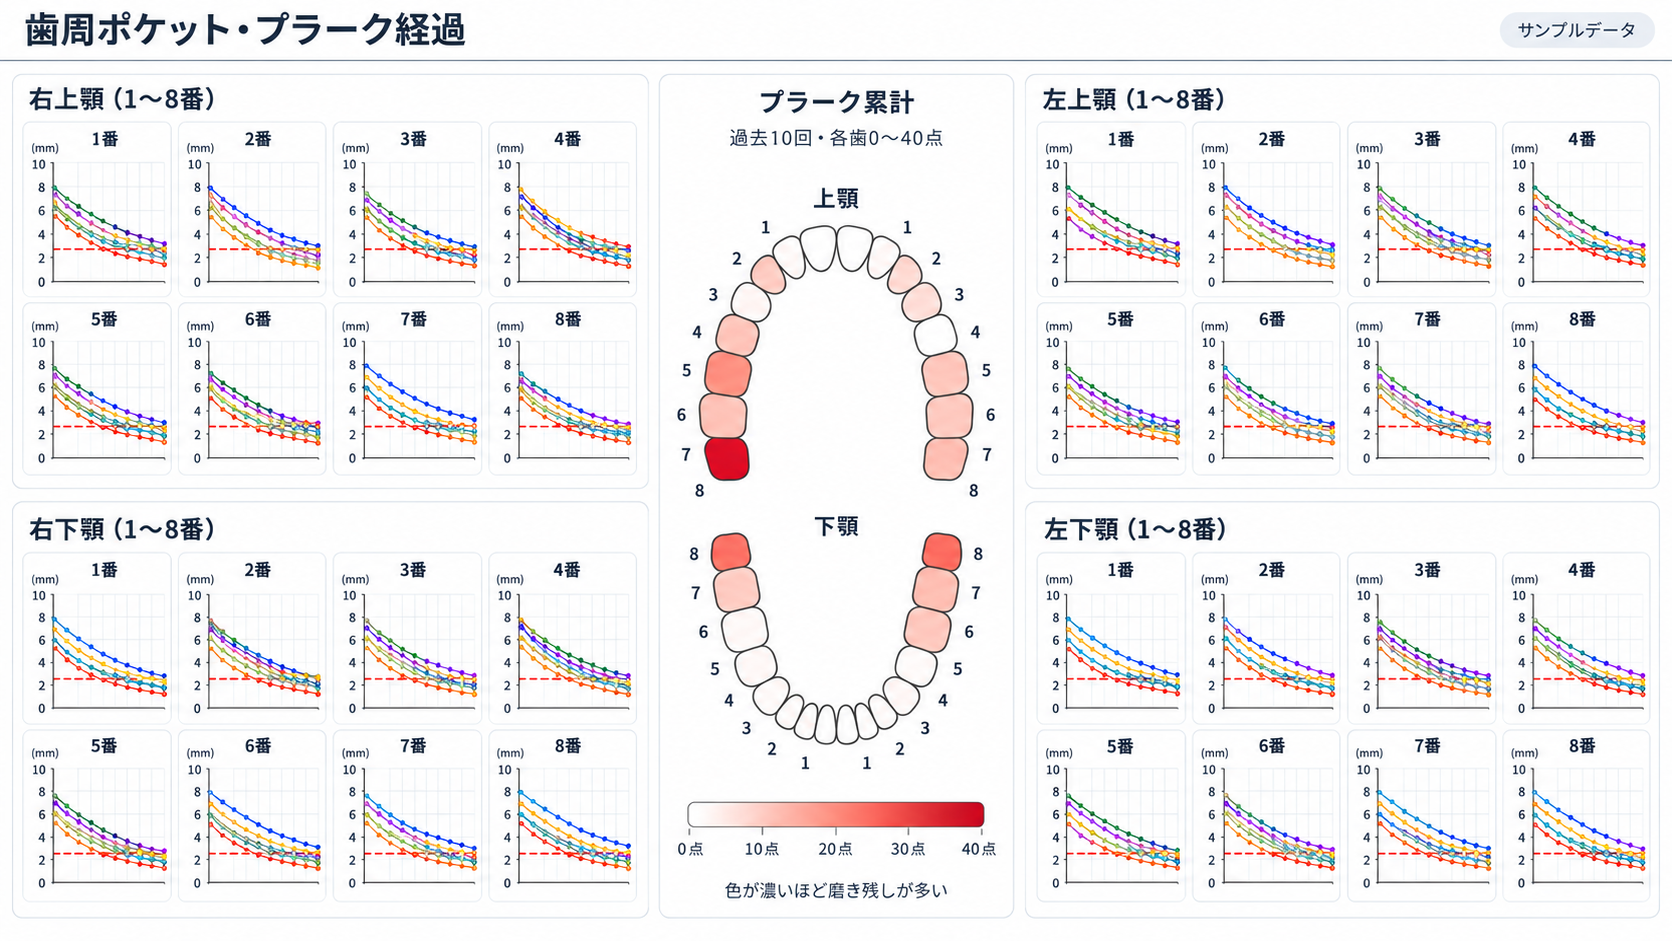
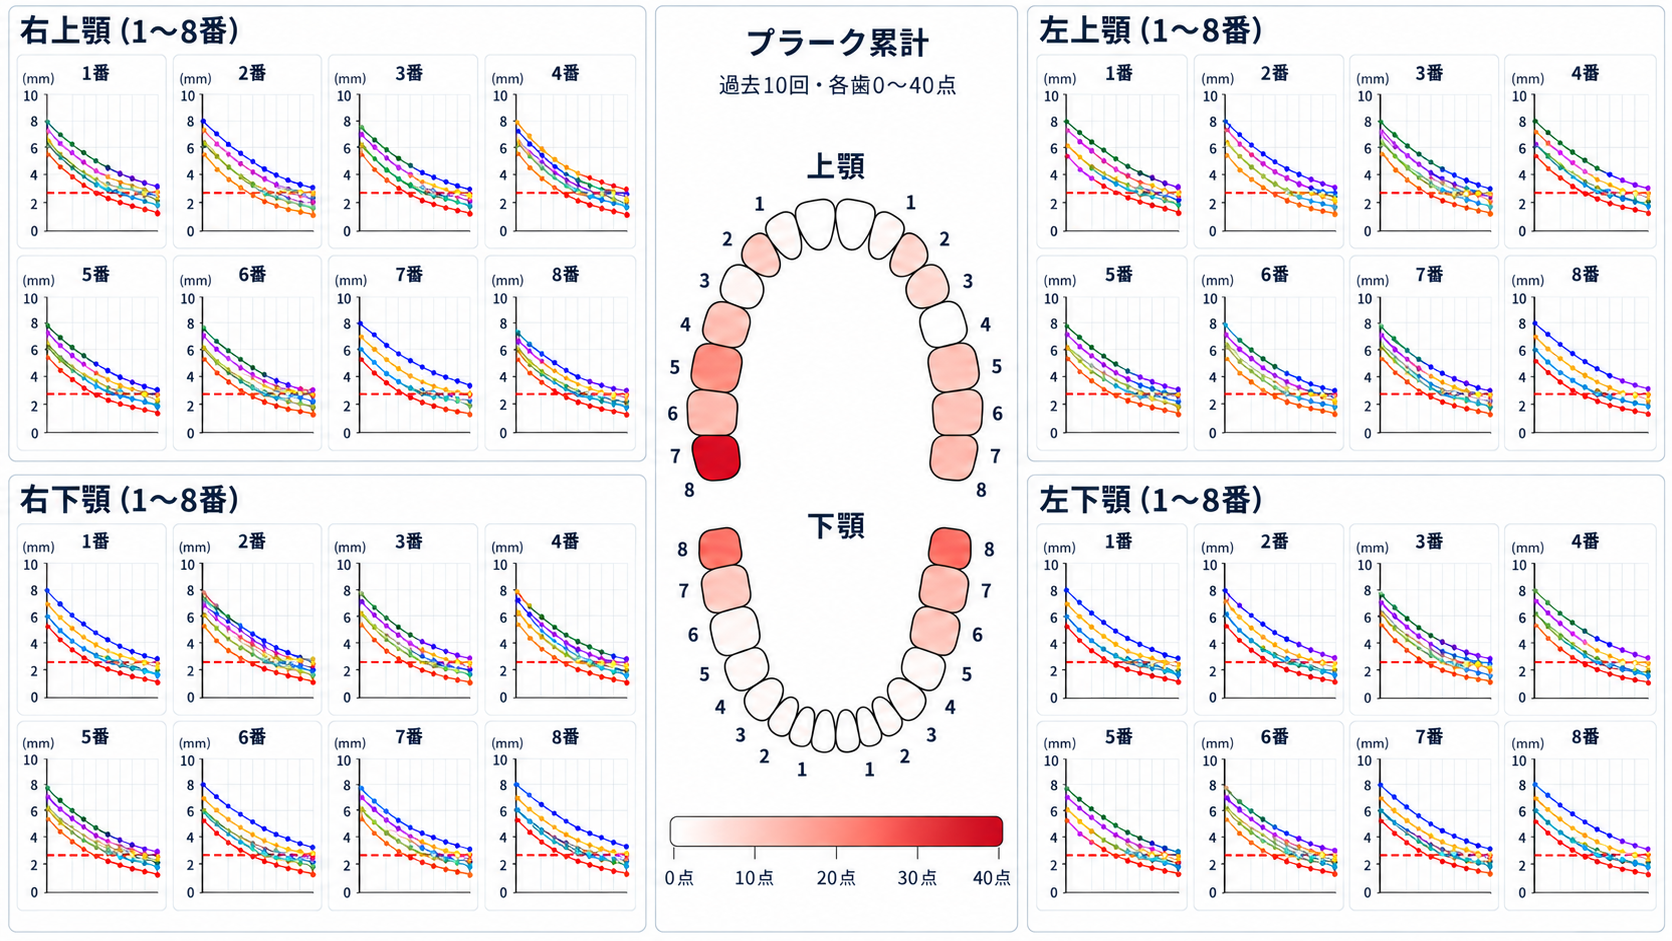
chore: deploy app updates

Changed region(s): [[0.0, 0.0, 1.0, 0.9862], [0.0, 0.9862, 0.9952, 1.0], [0.4665, 0.5239, 0.5287, 0.5855]]

diff --git a/components/HistoryMockPreview.tsx b/components/HistoryMockPreview.tsx
@@ -2,9 +2,7 @@ import React, { useEffect, useRef, useState } from 'react';
 
 const mockImageUrl = `${import.meta.env.BASE_URL}images/perio-history-mock-v3.png`;
 
-// The iPad 7 landscape display is 2160 physical pixels / 2 = 1080 CSS pixels.
-// Fit the available width at the app's default zoom; retain manual zoom controls.
-const landscapeWidth = 2160 / 2;
+// Fill the available preview area at the default zoom without clipping.
 const defaultZoom = 0.7;
 
 const HistoryMockPreview: React.FC<{ zoomLevel: number }> = ({ zoomLevel }) => {
@@ -22,7 +20,7 @@ const HistoryMockPreview: React.FC<{ zoomLevel: number }> = ({ zoomLevel }) => {
         return () => observer.disconnect();
     }, []);
 
-    const fittedWidth = Math.min(landscapeWidth, availableSize.width, availableSize.height * imageRatio);
+    const fittedWidth = Math.min(availableSize.width, availableSize.height * imageRatio);
     return (
     <div ref={containerRef} className="h-full w-full print:!h-auto print:p-0">
         <div className="mx-auto print:!w-full print:!max-w-none" style={{
@@ -35,7 +33,7 @@ const HistoryMockPreview: React.FC<{ zoomLevel: number }> = ({ zoomLevel }) => {
                     if (image.naturalHeight) setImageRatio(image.naturalWidth / image.naturalHeight);
                 }}
                 alt="歯周ポケット・プラーク経過のデザインモック。左上に右上顎、右上に左上顎、左下に右下顎、右下に左下顎の各8歯の経過グラフ。中央に上顎・下顎のプラーク累計ヒートマップ。"
-                className="block h-auto w-full rounded-lg border border-slate-200 bg-white shadow-sm print:rounded-none print:border-0 print:shadow-none"
+                className="block h-auto w-full bg-white"
             />
         </div>
     </div>
